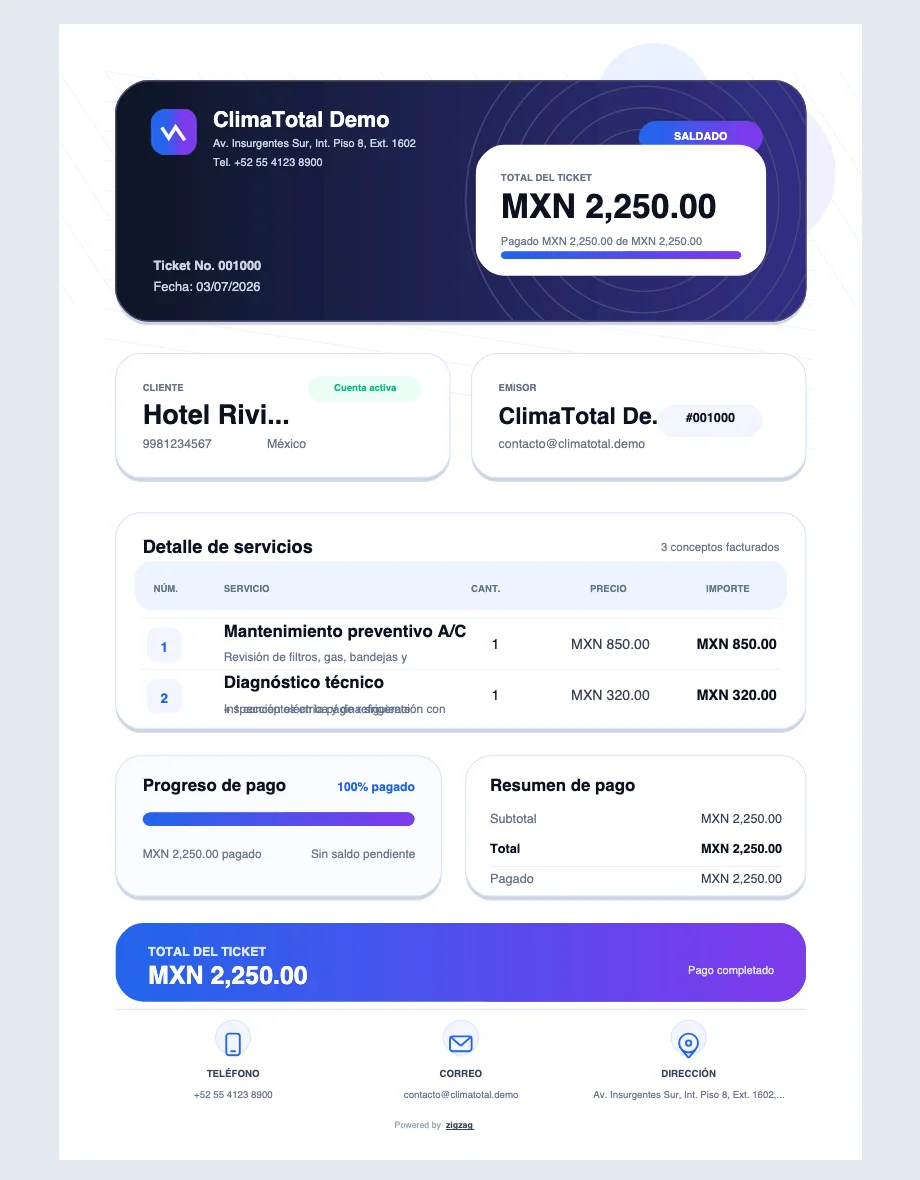
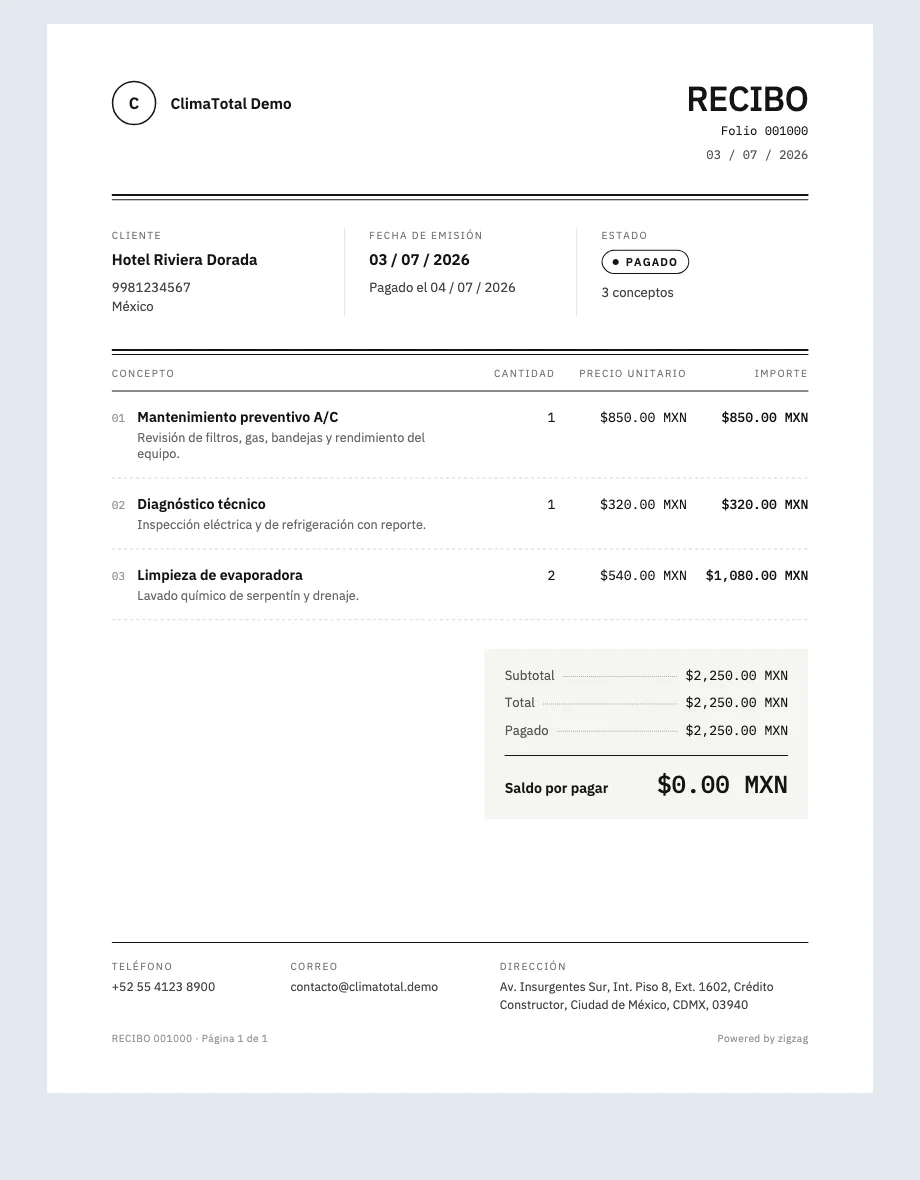
docs(pdf): design 2a in README, AGENTS rules and fidelity check; refresh the recibo guide image (ZIG-I11-5)
- README: features and the server PDF note describe the 2a presupuesto /
  recibo PDF, its code and the fonts script.
- AGENTS.md (PDF invoices): pinned rules (no IVA / CFDI, no Estado on
  presupuestos, materials rows, tagline), deliberate deviations and how to
  run the fidelity overlay.
- docs/guides + public/guides 10-factura-pdf.webp regenerated the same way
  scripts/capture-onboarding-guide-screenshots.mjs does (pdf.js at 1.35,
  920x1180, webp q84) from showcase ticket 1000; it still showed the old
  blue design in the README, the guides and the landing.

diff --git a/README.md b/README.md
@@ -35,7 +35,7 @@ More walkthroughs (tenant + system operator): [live guides](https://zigzag-hazel
 - Multi-tenant data isolation by company
 - Role-based permissions: tenants manage their team and roles in **Mi empresa** (`/company`: Datos · Equipo · Roles, roles edited as a Ver/Editar matrix by module); the global `/users`, `/roles` and permission catalog pages are for system operators only
 - Tickets, clients, and service catalog
-- Dashboard metrics and **server-generated** ticket invoices (PDF)
+- Dashboard metrics and **server-generated** presupuesto / recibo PDFs (design 2a: one monochrome US Letter page, IBM Plex embedded; spec in [`docs/pdf-design-2a/`](docs/pdf-design-2a/README.md))
 - Mobile-friendly UI (responsive lists, touch targets, accessibility)
 - Installable PWA (`start_url` → `/dashboard`; service worker caches app shell; field jobs can be created offline and sync via IndexedDB outbox — see `tasks/prd-offline-first-jobs.md`)
 - UI with shadcn/ui and Tailwind CSS
@@ -210,9 +210,9 @@ Before a mobile release, use the manual checklist: [tasks/mobile-release-checkli
 | Android | Chrome (last 2 major versions) |
 | Desktop | Chrome, Edge (current versions) |
 
-**English:** Ticket PDFs are generated on the server in v1. If download fails on iOS, retry on Wi‑Fi or contact your administrator.
+**English:** Presupuesto and recibo PDFs are generated on the server (`GET /api/tickets/[id]/invoice`, jsPDF + embedded IBM Plex; code in `src/lib/receipt-pdf/`, fonts regenerated with `npm run pdf-fonts:generate`). If download fails on iOS, retry on Wi‑Fi or contact your administrator.
 
-**Español:** Los recibos PDF se generan en el servidor en v1. Si la descarga falla en iOS, reintenta con Wi‑Fi o contacta al administrador.
+**Español:** Los PDF de presupuestos y recibos se generan en el servidor. Si la descarga falla en iOS, reintenta con Wi‑Fi o contacta al administrador.
 
 ## Deployment (Vercel + Neon)
 

diff --git a/AGENTS.md b/AGENTS.md
@@ -71,6 +71,9 @@ Do not add duplicate mutation handlers in API routes for resources that already 
 - Generated on demand on the server: `GET /api/tickets/[id]/invoice`.
 - Design 2a, the only layout for every tenant: spec in [docs/pdf-design-2a/](docs/pdf-design-2a/README.md) (`README.md` measurements, `receipt-template.html` reference, `sample-data.json`).
 - Code in `src/lib/receipt-pdf/` (server-only): `payload.ts` (`buildReceiptPdfPayload` → `ReceiptPdfPayload`), `render.ts` (`renderReceiptPdf`, jsPDF, US Letter), `layout.ts` (every measurement, in CSS px), `fonts/` (IBM Plex from `assets/fonts/ibm-plex/`; regenerate with `npm run pdf-fonts:generate`). Unit tests read the text layer with `src/test/pdf-text.ts` and write fixture PDFs to `test-results/pdf/`.
+- Rules (pinned in Plania, ZIG-I11): no IVA row and no CFDI note; a presupuesto prints no Estado (meta column 3 is the concept count, big figure *Total del presupuesto*); a recibo keeps the Estado pill (*Pendiente de pago* / *Pagado*) and *Saldo por pagar*. Materials (ZIG-I10) print as `· Nombre` sub-rows under their concept, with *Servicios* / *Materiales* totals rows only when a document has materials. The company tagline is `settings.tagline` (*Lema o giro*, max 60) from Mi empresa › Datos › Configuración.
+- Deliberate deviations from the HTML reference: no kerning (jsPDF), the big figure stacks label over value when both do not fit the 280px panel, numeric columns grow (16px air) for wide amounts, and the colophon (`Página n de N`) is on every page while the footer is last-page only.
+- Fidelity check: fill `docs/pdf-design-2a/receipt-template.html` with `sample-data.json`, screenshot it in Chromium at 816×1056, and overlay it on the PDF rasterized at 96 dpi (`pdftoppm -r 96`); positions match to ≤1px except kerning.
 - UI download: `src/components/pdf-download-button.tsx` (must not accept uploaded PDFs in production).
 
 ### BigInt IDs
